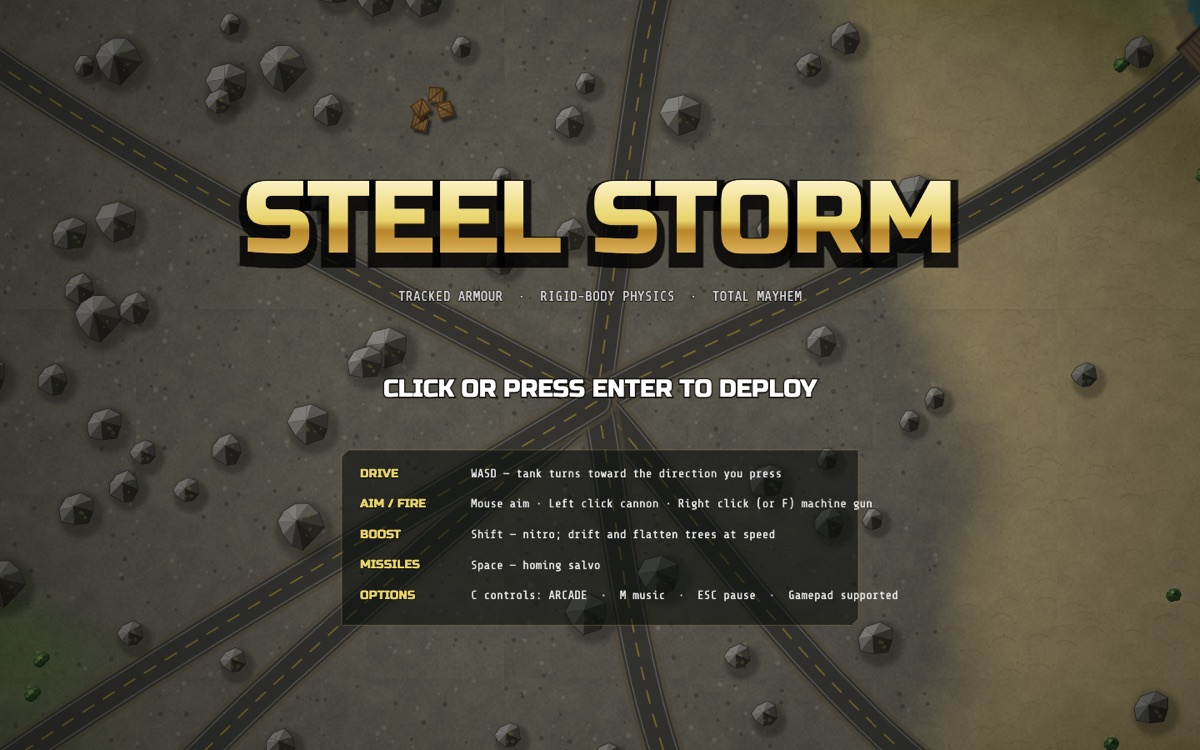
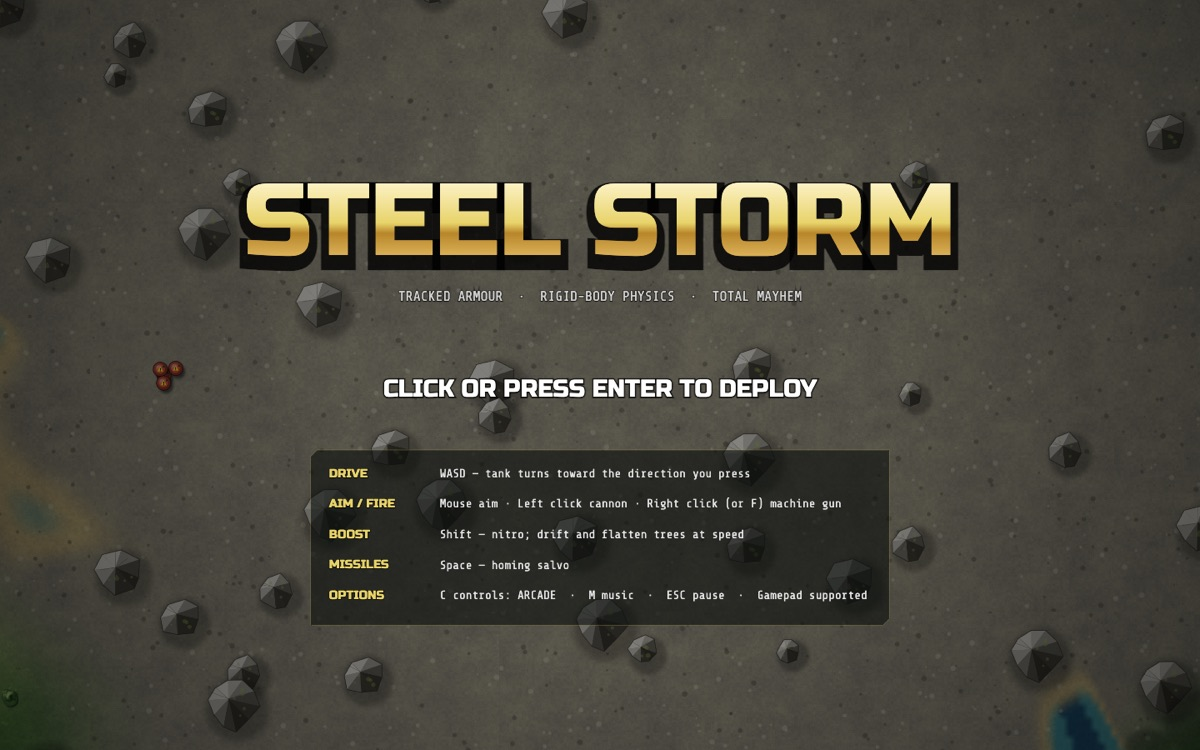
Fit title controls card to its text; don't fire on the deploy key
The controls card was a fixed width and the AIM / FIRE and OPTIONS rows
overflowed it; it now sizes to its longest row.

The key or click that changes game state is now consumed, so deploying,
redeploying or choosing an upgrade with Space no longer also fires a
missile salvo on the first frame. Adds tools/start-input.mjs to check it.

diff --git a/src/hud.js b/src/hud.js
@@ -416,9 +416,7 @@ export function drawTitle(game, ctx) {
   if (touchOnly) text(ctx, 'NEEDS A KEYBOARD AND MOUSE, OR A GAMEPAD', w / 2, h * 0.52, 20 * s, '#ffb347', 'center');
   else if (blink) text(ctx, 'CLICK OR PRESS ENTER TO DEPLOY', w / 2, h * 0.52, 26 * s, '#ffffff', 'center');
 
-  // Controls card
-  const cw = 560 * s, ch = 190 * s, cx = w / 2 - cw / 2, cy = h * 0.6;
-  panel(ctx, cx, cy, cw, ch, 0.6);
+  // Controls card, sized to fit its longest row
   const rows = [
     ['DRIVE', game.controlMode === 'arcade' ? 'WASD — tank turns toward the direction you press' : 'W/S throttle · A/D steer (classic tank controls)'],
     ['AIM / FIRE', 'Mouse aim · Left click cannon · Right click (or F) machine gun'],
@@ -426,6 +424,10 @@ export function drawTitle(game, ctx) {
     ['MISSILES', 'Space — homing salvo'],
     ['OPTIONS', `C controls: ${game.controlMode.toUpperCase()}  ·  M music  ·  ESC pause  ·  Gamepad supported`],
   ];
+  ctx.font = `${13 * s}px ${MONO}`;
+  const textW = Math.max(...rows.map(([, v]) => ctx.measureText(v).width));
+  const cw = Math.max(560 * s, 140 * s + textW + 24 * s), ch = 190 * s, cx = w / 2 - cw / 2, cy = h * 0.6;
+  panel(ctx, cx, cy, cw, ch, 0.6);
   rows.forEach(([k, v], i) => {
     const ry = cy + 26 * s + i * 33 * s;
     text(ctx, k, cx + 20 * s, ry, 13 * s, '#e8d36a', 'left', FONT);

diff --git a/src/game.js b/src/game.js
@@ -183,6 +183,14 @@ export class Game {
   }
 
   handleGlobalInput() {
+    const before = this.state;
+    this.handleStateInput();
+    // The key or click that changed state is used up, so starting a game or picking
+    // an upgrade with Space doesn't also fire a missile salvo in the same frame.
+    if (this.state !== before) this.input.endFrame();
+  }
+
+  handleStateInput() {
     const inp = this.input;
     if (inp.hit('KeyM')) audio.toggleMusic();
     if (this.state === 'title') {
